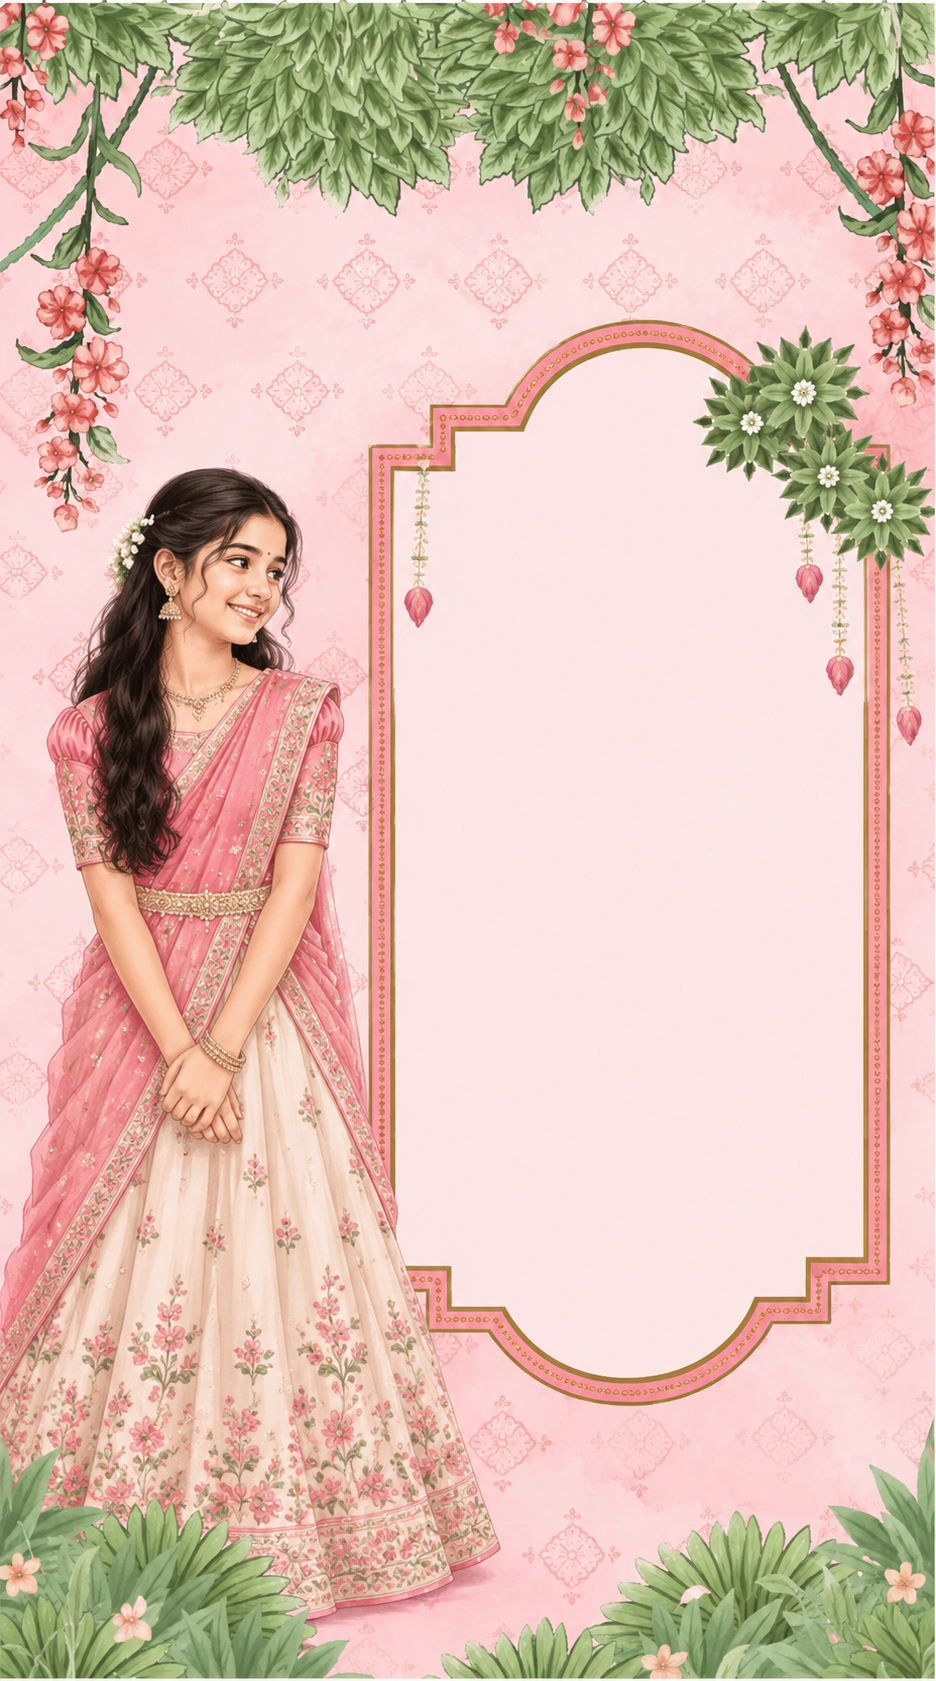
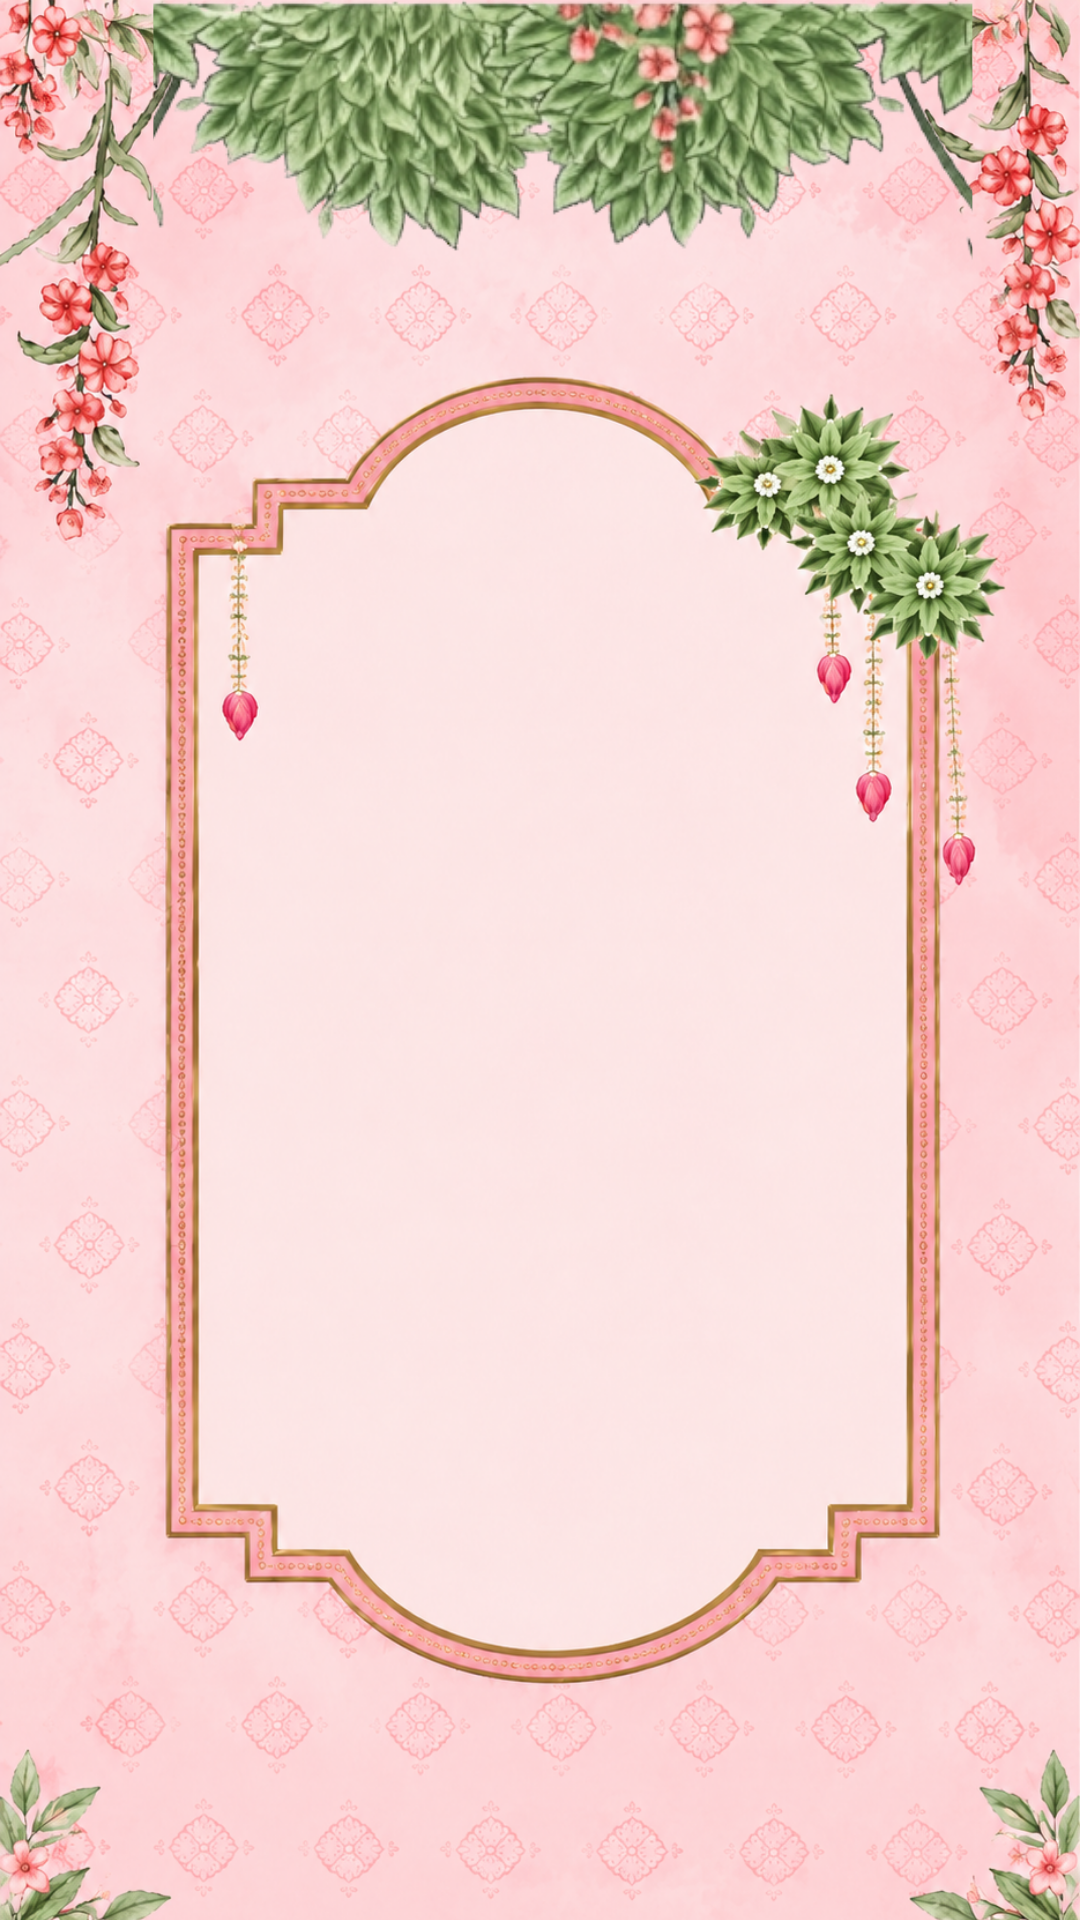
Hero: centre text inside new frame image

diff --git a/hero/hero.css b/hero/hero.css
@@ -38,20 +38,29 @@
     pointer-events: none;
   }
   
-  /* MOVE ALL TEXT FAR TO THE RIGHT */
+  /* CENTRE THE TEXT INSIDE THE FRAME OF hero-image.png
+     The background uses "cover", so the image is scaled by --hero-s
+     (screen px per image px) and cropped around its centre. The frame's
+     centre in the 1080x1920 image is x=552, y=1030 (image centre is
+     540, 960), so the text is placed at that point using the same scale.
+     This keeps it centred in the frame at every screen size. */
+  #hero {
+    --hero-s: max(calc(100vw / 1080), calc(100svh / 1920));
+  }
+
   #hero .hero-content {
-    position: relative;
+    position: absolute;
     z-index: 2;
-    left: 0;
-    flex: 0 0 min(800px, 100%);
-    width: min(800px, 100%);
-    max-width: 800px;
-    margin: 0 auto;
+    left: calc(50% + var(--hero-s) * 12);
+    top: calc(50% + var(--hero-s) * 70);
+    transform: translate(-50%, -50%);
+    width: calc(var(--hero-s) * 640);
+    max-width: 100%;
+    margin: 0;
     padding: 0;
     text-align: center;
-    transform: translateX(110px) !important;
-}
-  
+  }
+
   /* HEADING */
   #hero .hero-eyebrow {
     margin-bottom: 20px;
@@ -174,12 +183,6 @@
   
   /* MOBILE */
   @media (max-width: 480px) {
-    #hero .hero-content {
-      flex-basis: 100%;
-      width: 100%;
-      transform: translateX(60px) !important;
-    }
-  
     #hero .hero-eyebrow {
       letter-spacing: 2px;
     }
